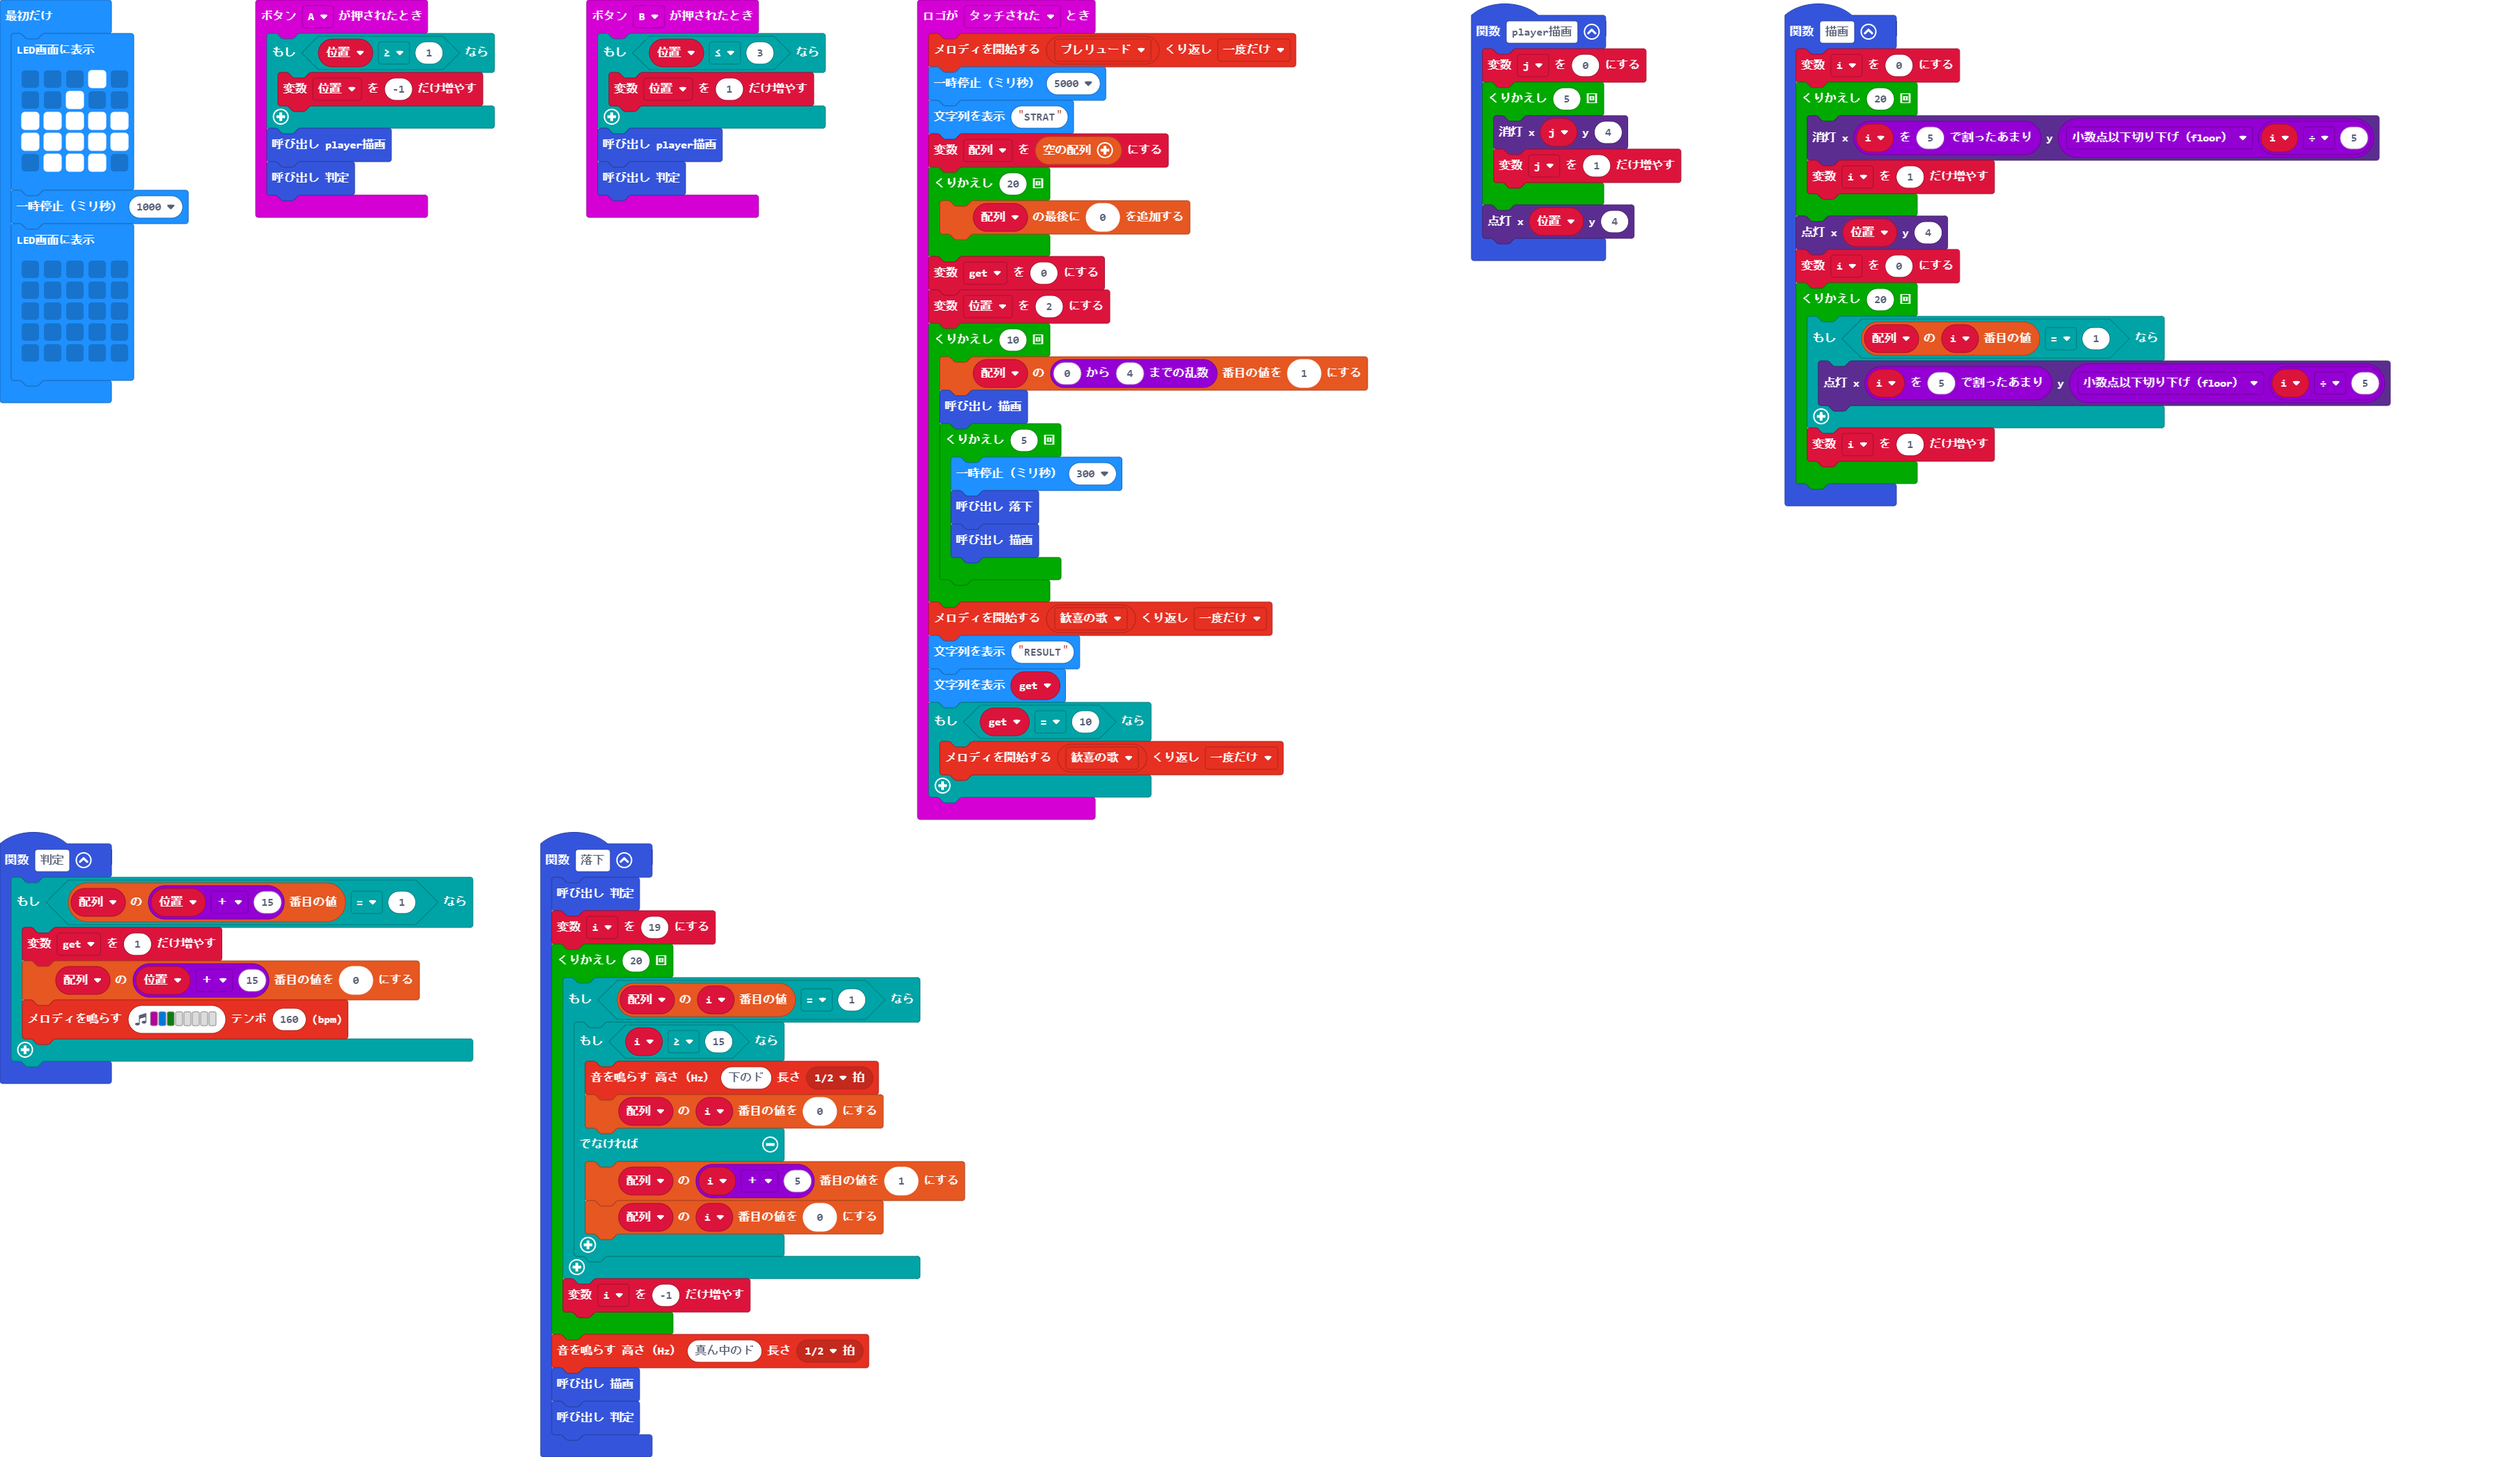
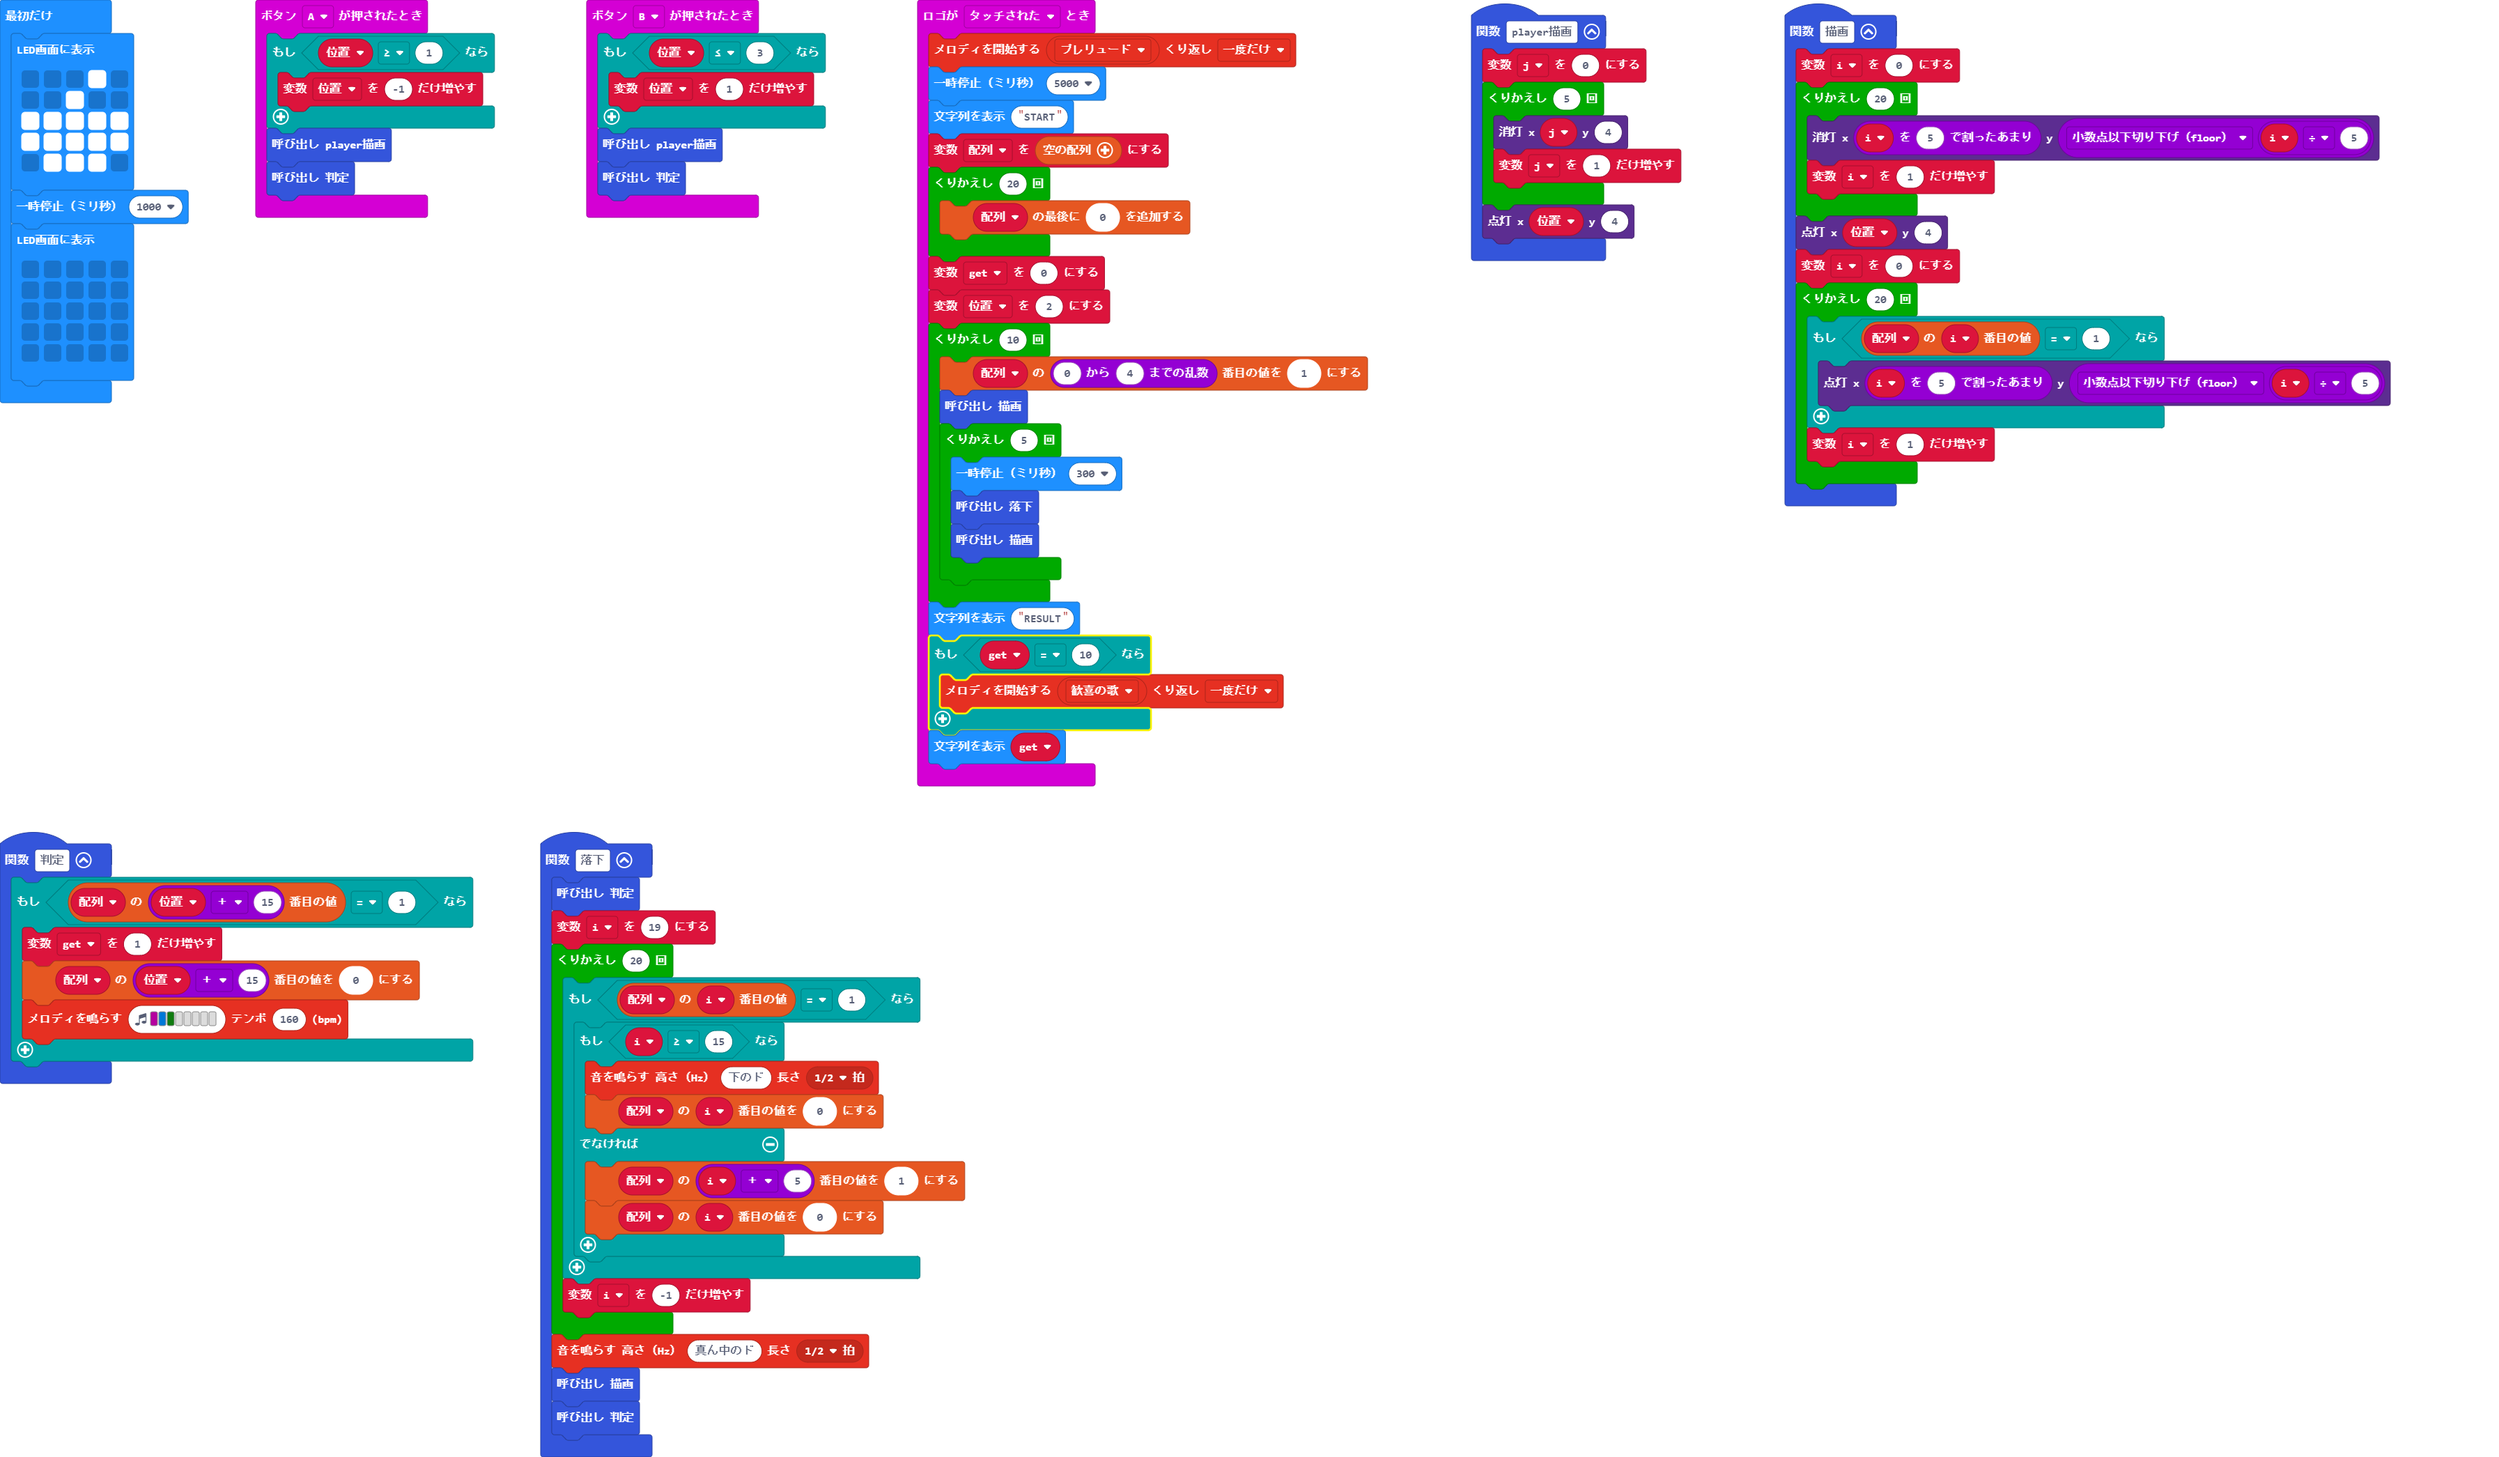
更新 main.blocks, main.ts

Changed region(s): [[0.3435, 0.4041, 0.5308, 0.5906]]

diff --git a/main.ts b/main.ts
@@ -1,7 +1,7 @@
 input.onLogoEvent(TouchButtonEvent.Touched, function () {
     music.startMelody(music.builtInMelody(Melodies.Prelude), MelodyOptions.Once)
     basic.pause(5000)
-    basic.showString("STRAT")
+    basic.showString("START")
     配列 = []
     for (let index = 0; index < 20; index++) {
         配列.push(0)
@@ -17,12 +17,11 @@ input.onLogoEvent(TouchButtonEvent.Touched, function () {
             描画()
         }
     }
-    music.startMelody(music.builtInMelody(Melodies.Ode), MelodyOptions.Once)
     basic.showString("RESULT")
-    basic.showString("" + (_get))
     if (_get == 10) {
         music.startMelody(music.builtInMelody(Melodies.Ode), MelodyOptions.Once)
     }
+    basic.showString("" + (_get))
 })
 function player描画 () {
     j = 0
